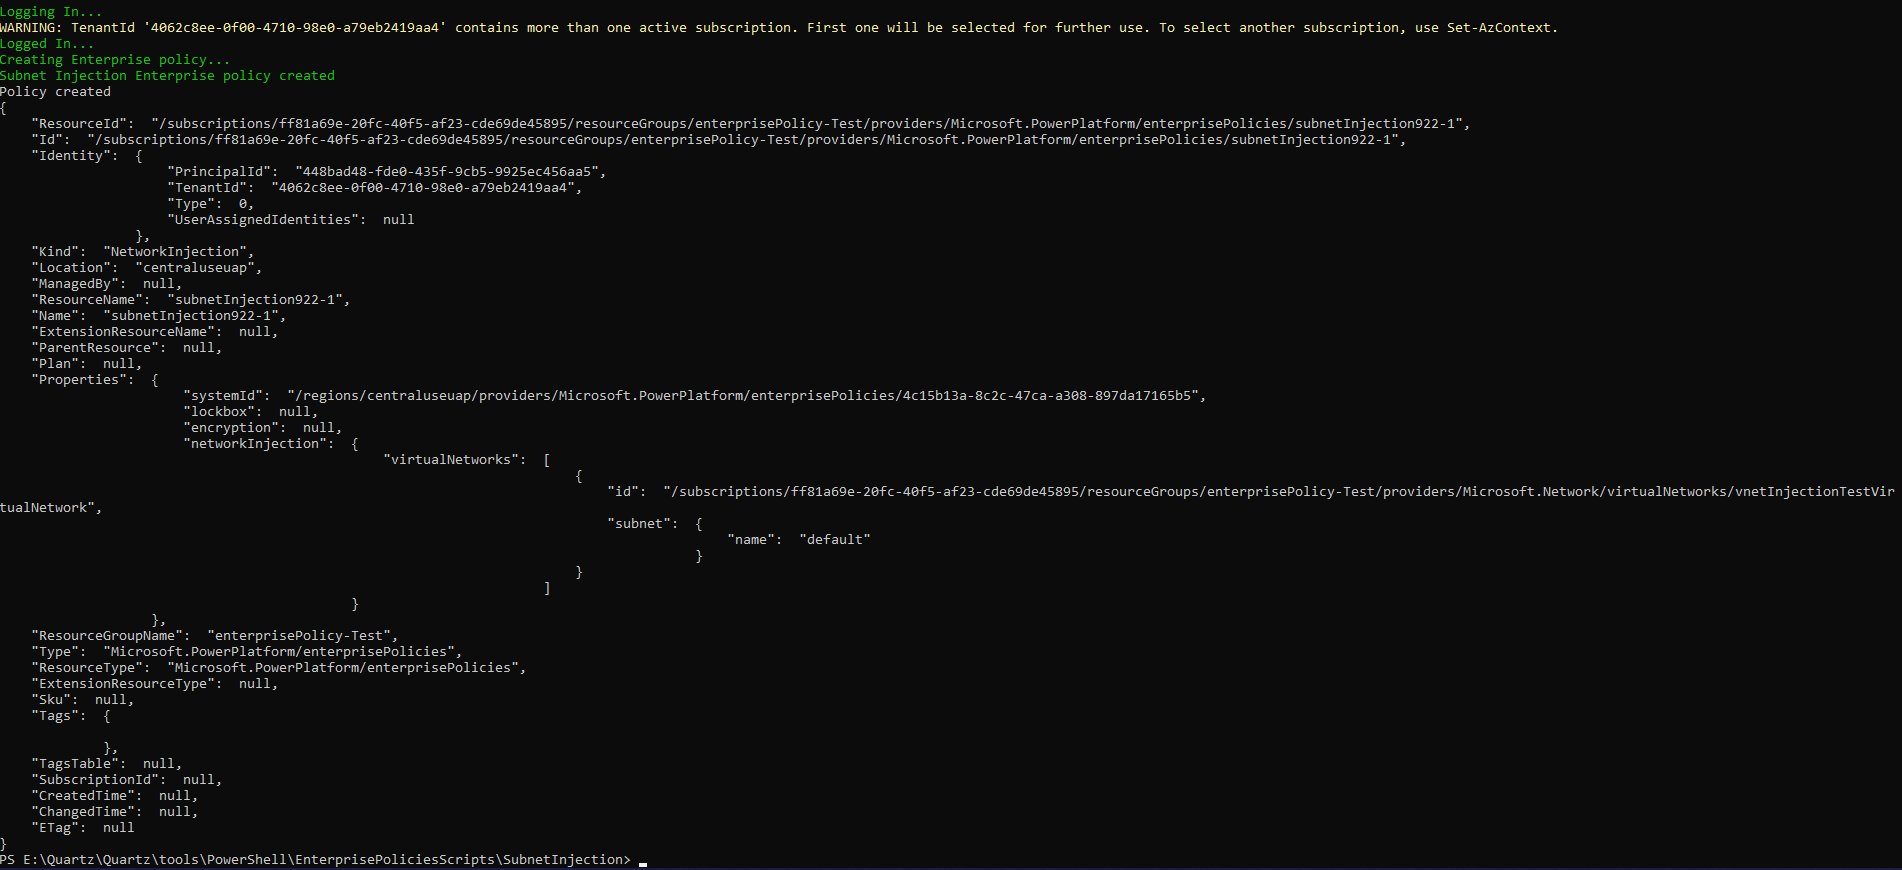
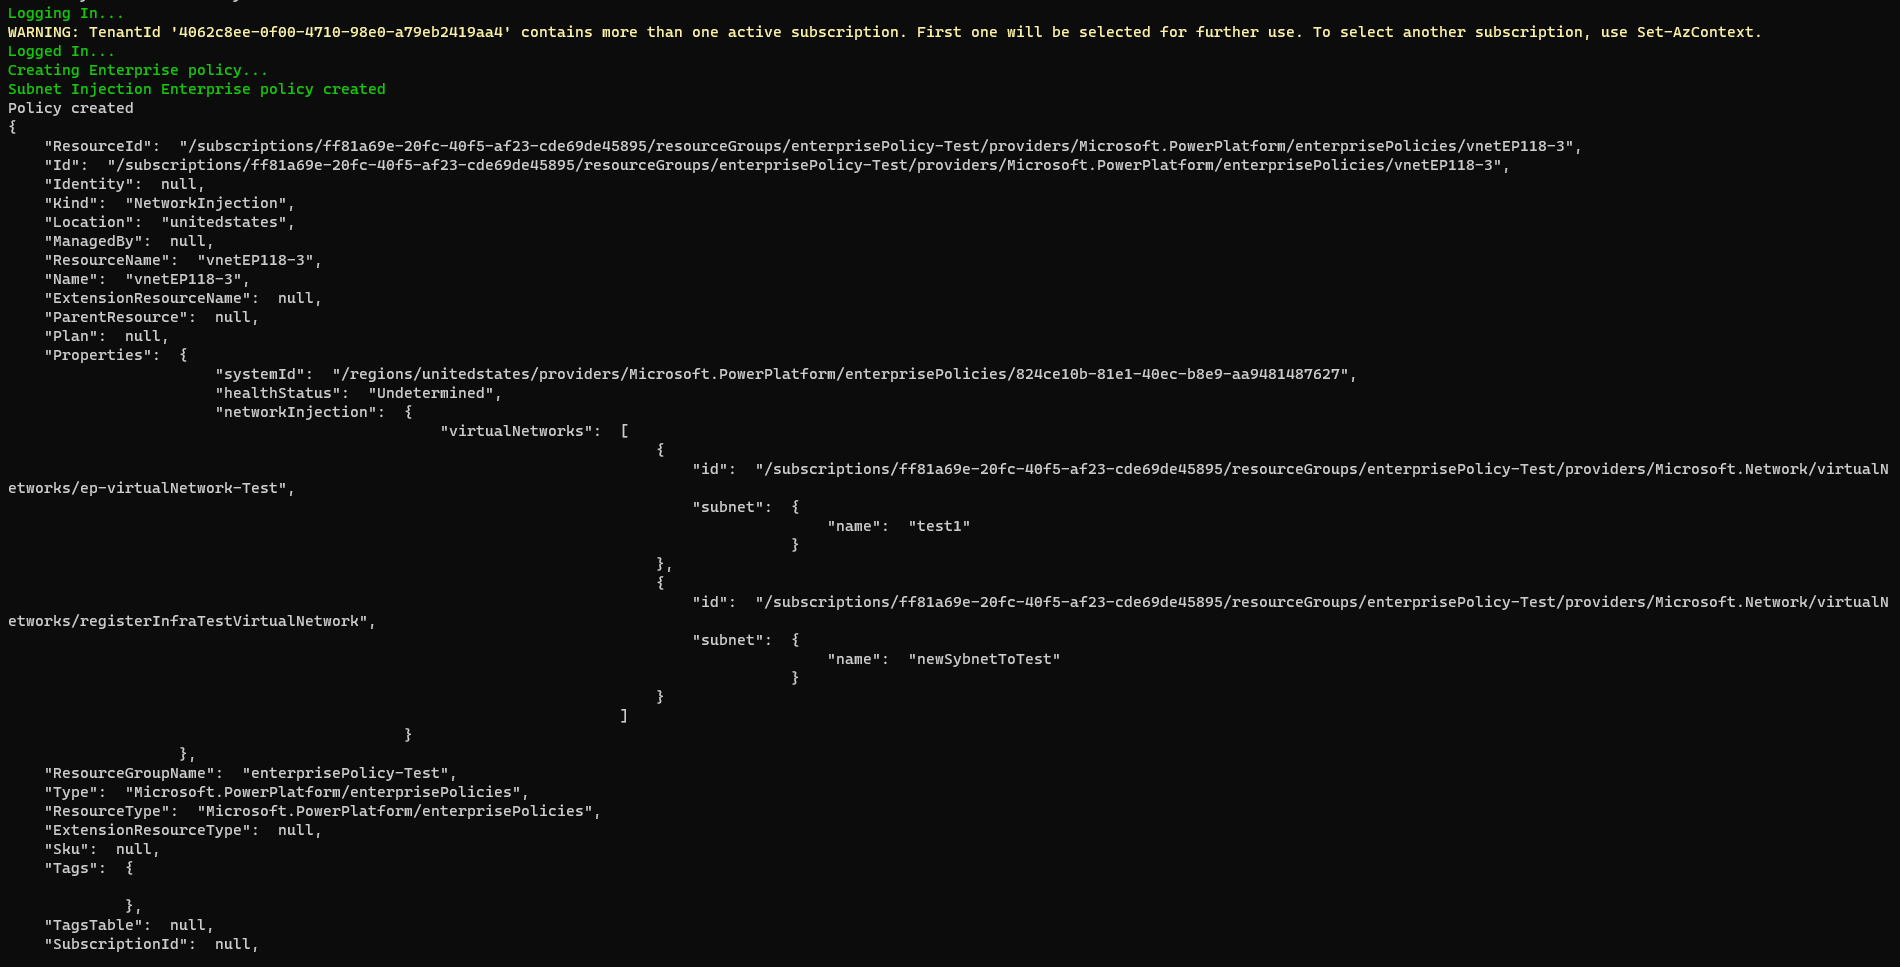
Update subnet injection script to take primary and secondary vnet as input (#526)
* Add vnet location validation for Create/Update of SubnetInjection Enterprise Policy

* Update ReadMe

* Update subnet injection script to add primary and secondary vnet as input

diff --git a/powershell/enterprisePolicies/README.md b/powershell/enterprisePolicies/README.md
@@ -198,8 +198,10 @@ Input parameters :
     - enterprisePolicyLocation : The Azure geo where Subnet Injection enterprise policy needs to be created. Example: unitedstates, europe, australia.</br>
       To get the complete supported locations for enterprise policy, below command can be used:</br>
       ((Get-AzResourceProvider -ProviderNamespace Microsoft.PowerPlatform).ResourceTypes | Where-Object ResourceTypeName -eq enterprisePolicies).Locations
-    - vnetId : The ARM resource ID of the virtual network used for Subnet Injection
-    - subnetName : The name of the subnet in the virtual network that will be used for Subnet Injection
+    - primaryVnetId : The ARM resource ID of the primary virtual network used for Subnet Injection
+    - primarySubnetName : The name of the subnet in the primary virtual network that will be used for Subnet Injection
+    - secondaryVnetId : The ARM resource ID of the secondary virtual network used for Subnet Injection
+    - secondarySubnetName : The name of the subnet in the secondary virtual network that will be used for Subnet Injection
 
 Sample Input :</br>
 ![alt text](./ReadMeImages/CreateSubnetInjectionEnterprisePolicy1.png)</br>
@@ -241,7 +243,7 @@ Sample Input : </br>
 Sample Output :</br>
 ![alt text](./ReadMeImages/GetSubnetInjectionEnterprisePoliciesInResourceGroup2.png)</br>
 
-6. **Update Subnet Injection Enterprise Policy** : This script updates a Subnet Injection Enterprise Policy. The updates allowed are for virtual network Id and/or subnet name.</br>
+6. **Update Subnet Injection Enterprise Policy** : This script updates a Subnet Injection Enterprise Policy. The updates allowed are for primary/secondary virtual network Id and/or primary/secondary subnet name.</br>
 If you are changing only some of the allowed parameter values, provide “N/A” when prompted for the parameters that you don’t want to change.</br>
  **If the enterprise policy is associated with one or more environments, the update operation will fail, and the script will return an error.**</br>
 Script name : UpdateSubnetInjectionEnterprisePolicy.ps1</br>
@@ -249,8 +251,10 @@ Input parameters :
     - subscriptionId : The Azure subscription Id of the Subnet Injection Enterprise Policy
     - resourceGroup : The Azure resource group of the Subnet Injection Enterprise Policy
     - enterprisePolicyName : The name of the Subnet Injection enterprise policy that needs to be updated
-    - vnetId : The ARM resource ID of the virtual network if it needs to be updated. Provide "N/A" if update is not required for virtual network Id
-    - subnetName: The name of the subnet if it needs to be updated. Provide "N/A" if update is not required for name of the subnet
+    - primaryVnetId : The ARM resource ID of the primary virtual network if it needs to be updated. Provide "N/A" if update is not required for the primary virtual network Id
+    - primarySubnetName: The name of the subnet in the primary virtual network if it needs to be updated. Provide "N/A" if update is not required for name of the subnet in the primary virtual network
+    - secondaryVnetId : The ARM resource ID of the secondary virtual network if it needs to be updated. Provide "N/A" if update is not required for the secondary virtual network Id
+    - secondarySubnetName: The name of the subnet in the secondary virtual network if it needs to be updated. Provide "N/A" if update is not required for name of the subnet in the secondary virtual network
 
 Sample Input : </br>
 ![alt text](./ReadMeImages/UpdateSubnetInjectionEnterprisePolicy1.png)</br>
